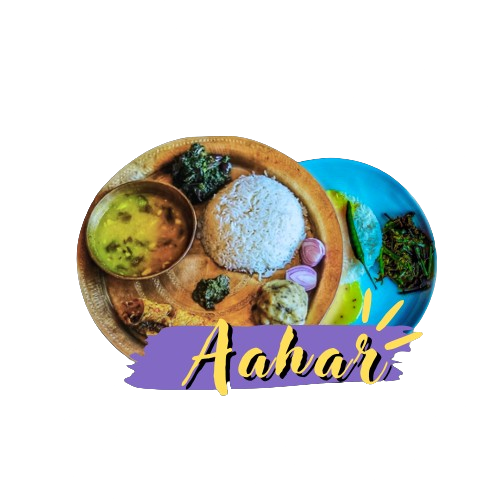
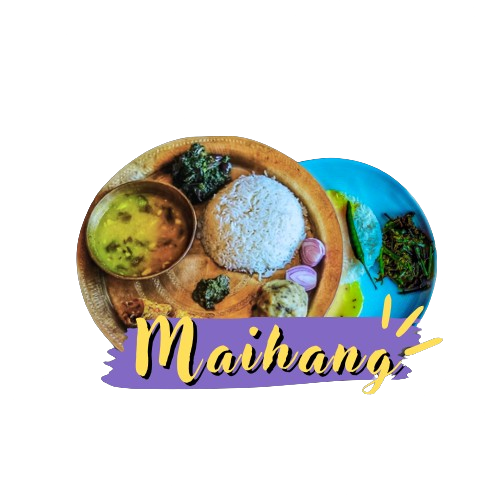
second commit

Changed region(s): [[0.21, 0.57, 0.9, 0.81]]

diff --git a/src/App.css b/src/App.css
@@ -72,6 +72,9 @@ body{
 @import url('https://fonts.googleapis.com/css2?family=Exo+2:ital,wght@0,100..900;1,100..900&family=Space+Grotesk:wght@300..700&display=swap');
 @import url('https://fonts.googleapis.com/css2?family=Exo+2:ital,wght@0,100..900;1,100..900&family=Pacifico&family=Space+Grotesk:wght@300..700&display=swap');
 @import url('https://fonts.googleapis.com/css2?family=Exo+2:ital,wght@0,100..900;1,100..900&family=Pacifico&family=Space+Grotesk:wght@300..700&family=Updock&family=Vidaloka&display=swap');
+@import url('https://fonts.googleapis.com/css2?family=Exo+2:ital,wght@0,100..900;1,100..900&family=Merienda:wght@300..900&family=Pacifico&family=Playwrite+GB+S:ital,wght@0,100..400;1,100..400&family=Space+Grotesk:wght@300..700&family=Updock&family=Vidaloka&display=swap');
+@import url('https://fonts.googleapis.com/css2?family=Exo+2:ital,wght@0,100..900;1,100..900&family=Pacifico&family=Playwrite+GB+S:ital,wght@0,100..400;1,100..400&family=Space+Grotesk:wght@300..700&family=Updock&family=Vidaloka&display=swap');
+
 .dancing-script-ft {
   font-family: "Dancing Script", cursive;
   font-optical-sizing: auto;
@@ -93,7 +96,7 @@ body{
 
 .bree-serif-regular {
   font-family: "Bree Serif", serif;
-  font-weight: 400;
+  font-weight: 200;
   font-style: normal;
 }
 .eczar-ft {
@@ -123,6 +126,17 @@ body{
   font-weight: 400;
   font-style: normal;
 }
+.playwrite-gb-s-1 {
+  font-family: "Playwrite GB S", cursive;
+  font-optical-sizing: auto;
+  font-weight: 400;
+  font-style: normal;
+}
+.merienda-1 {
+  font-family: "Merienda", cursive;
+
+}
+
 
 
 
@@ -185,7 +199,13 @@ body{
 .img-head{
   height: 600px;
 }
-
+.para-detail{
+  color: rgb(255, 255, 255);
+ font-size: 1.4rem;
+ width: 600px;
+ font-weight: 100 !important;
+ letter-spacing: 1px;
+}
 .order-btn{
   background-color: rgba(7, 1, 18, 0.816);
   backdrop-filter: blur(10px);
@@ -389,11 +409,13 @@ body{
   align-items: center;
   overflow: hidden ;
 }
+
 .food-ctg h2{
-  
   text-align: center;
   margin-top: 20px;
-  color: #d4cb48;
+  font-weight: 600;
+  color:#d4cb48 ;
+  font-size: 3rem !important;
   text-shadow:2px 2px 2px #05050595;
   display: flex;
   justify-content: center;
@@ -540,7 +562,7 @@ transition: .3s;
   font-weight: 900;
   margin-top: 30px;
   font-size: 42px !important;
-  color: #c8b4e2cf;
+  color: #bba4d3;
   /* text-shadow: 2px 2px 2px #ffffff; */
 
 }

diff --git a/src/componenets/process/process.css b/src/componenets/process/process.css
@@ -49,21 +49,18 @@
 }
 
 .process .process-head h3{
-  font-family: "Space Grotesk", sans-serif;
-  font-size: 18.72px;
-
-font-weight: 700;
+color: #bba4d3;
 }
 
 .process .process-head h1{
-  font-family: "Exo 2", sans-serif;
-  font-weight: 800;
-  color:#c8b4e2cf ;
+  font-weight: 600;
+  color:#d4cb48 ;
+  font-size: 3rem !important;
   /* text-shadow: 1px 2px 0px #e8e878a1; */
 }
 .process-box1{
-  height: 200px;
-  width: 300px;
+  height: 250px;
+  width: 350px;
   position: absolute;
   background-size: cover;
   /* background-image: url(src/componenets/img/trianglify-lowres.png); */
@@ -77,16 +74,18 @@ background: linear-gradient(135deg, rgba(77,58,144,.5) 0%, rgba(93,153,12,.5) 10
   justify-content: center;
   align-items: flex-start;
   gap: 20px;
-  backdrop-filter: blur(10px);
+  backdrop-filter: blur(30px);
   transition: .5s;
+  border: 2px solid #ba31b775;
 }
 .process-box1:hover{
   cursor: pointer;
 padding: 20px;
 box-shadow: 4px 5px 6px -2px #ffffff70;
 z-index: 100;
-height: 240px;
-width: 330px;
+height: 270px;
+width: 380px;
+border: 1px solid white;
 }
 #proc-b2:hover{
   z-index: 100;
@@ -103,7 +102,7 @@ width: 330px;
   margin-bottom: 0;
   letter-spacing: 1.56px;
   background: rgb(40,31,231);
-background: linear-gradient(135deg, rgb(56 143 14) 0%, rgb(95 119 32) 100%);
+background: linear-gradient(135deg, rgb(255 0 248) 0%, rgb(186 255 4) 100%);
 background-clip: text;
 color: transparent;
 animation: appear 5s;

diff --git a/src/componenets/header/Header.jsx b/src/componenets/header/Header.jsx
@@ -53,16 +53,19 @@ export default function Header() {
         </div>
       </nav>
       <div className="head-p1">
-        <div className="text-head-p2">
+        <div className="text-head-p2 mt-5">
           <div className="deliver">
           <FontAwesomeIcon icon={faTruck} />
             <p className="deliver-p">Easy way to order your food</p>
           </div>
-          <h1 className="head-logo-name head-txt-m">Aahar</h1>
+          <h1 className="head-logo-name head-txt-m">Maihang</h1>
           <div className="bar" />
           <h4 className="head-logo-tag head-txt-s dancing-script-ft">
             Let's have a taste of delicious <p className="vidaloka-regular">Assamese food</p>
           </h4>
+          <p className='para-detail bree-serif-regular'>
+          Assamese food makes people think of big family dinners. So you may want to position your restaurant as a place to bring the whole family.
+          </p>
           <button className='order-btn h-18 w-full text-yellow-500 text-xl rounded-lg p-1 mt-5 pacifico-regular'>
             Order Now
           </button>

diff --git a/src/componenets/feedback/feedback.css b/src/componenets/feedback/feedback.css
@@ -5,7 +5,7 @@
   margin-top: 90px;
   justify-content: space-around;
      padding: 48px 30px 48px 30px;
-     background-color: #a15bb13e;
+     background-color: #16031fd5;
      backdrop-filter: blur(20px);
  }
  .feedbk .feedbk-img img{
@@ -16,7 +16,9 @@
   font-size: 2.2rem !important;
   color: #2d2d4a;
  }
- 
+ .updock-regular{
+  color: #bba4d3;
+ }
  
  .feedbk-part {
    display: flex;
@@ -35,7 +37,10 @@
    scroll-snap-type: x mandatory;
    transition: 1s;
  }
-
+.rvw-text{
+  font-size: 42px !important;
+    color: #bba4d3;
+}
  .feedbk-part .feedbk-part-rvws::-webkit-scrollbar {
   display: none; /* Hide scrollbar in WebKit browsers */
 }
@@ -60,11 +65,11 @@
      flex-shrink: 0;
      flex-direction: column;
      align-items: baseline;
-     background-color: #bbbd8d9e;
+     background-color: #4d265b;
      padding: 20px;
      padding-bottom: 0;
      justify-content: center;
-     box-shadow: 4px 6px 4px 0px #49544147 ;
+     box-shadow: 4px 6px 4px 0px #e4e8e284 ;
      transition: .5s;
      color: #211a3da8;
      border-radius: 4px;

diff --git a/src/componenets/feedback/Feedback.jsx b/src/componenets/feedback/Feedback.jsx
@@ -34,7 +34,7 @@ export default function Feedback() {
   return (
     <div className="feedbk">
       <div className="feedbk-part">
-        <h1 className='dancing-script-ft text-center'>Customer Reviews</h1>
+        <h1 className='merienda-1 text-center rvw-text'>Customer Reviews</h1>
         <div className="feedbk-part-rvws">
           <div className="feedbk-part-rvw" id="feedbk-part1">
             <img src={imgs[currentIndex]} alt="" />

diff --git a/src/componenets/process/Process.jsx b/src/componenets/process/Process.jsx
@@ -9,8 +9,8 @@ export default function Process() {
     
     <div className="process">
       <div className="process-head">
-        <h1>How it works ?</h1>
-        <h3>simple process</h3>
+        <h1 className='merienda-1'>How it works ?</h1>
+        <h3 className='playwrite-gb-s-1 text-3xl'>simple process</h3>
       </div>
       <div className="process-box">
         <div className="procs-img">

diff --git a/src/componenets/foot-ctg/FoodCtg.jsx b/src/componenets/foot-ctg/FoodCtg.jsx
@@ -9,7 +9,7 @@ import { faUtensils } from '@fortawesome/free-solid-svg-icons';
 export default function FoodCtg() {
   return (
     <div className="food-ctg">
-      <h2 className="nerko-one-regular">
+      <h2 className="merienda-1 mb-7 food-ctg-h2">
         Top Dishes
         <FontAwesomeIcon icon={faUtensils}/>
       </h2>

diff --git a/src/componenets/mid-part/MidPart.jsx b/src/componenets/mid-part/MidPart.jsx
@@ -5,7 +5,7 @@ import img from '../img/dots-blue.png'
 export default function MidPart() {
   return (
     <div className="middle-part">
-{/* <img className='dots' src={img} alt="" /> */}
+
       <div className="restr">
         <h3 className="dancing-script-ft">Popular resturants</h3>
         <div className="restr-list">

diff --git a/src/componenets/deals/deals.jsx b/src/componenets/deals/deals.jsx
@@ -8,7 +8,7 @@ export default function Deals() {
   return (
     <div className="deals">
       <h2>Super Delicious Deals
-<FontAwesomeIcon icon={faFire}/>
+<FontAwesomeIcon icon={faFire} />
       </h2>
       <div className="deals-cards">
         <div className="deals-card" id="deal-card1">

diff --git a/src/componenets/header/nav.css b/src/componenets/header/nav.css
@@ -1,7 +1,9 @@
 /*CSS page*/
 /*New Css Project*/
 @import url('https://cdnjs.cloudflare.com/ajax/libs/font-awesome/4.7.0/css/font-awesome.min.css');
-
+nav{
+  height: 100px;
+}
 ul {
   list-style-type: none;
   display: flex;
